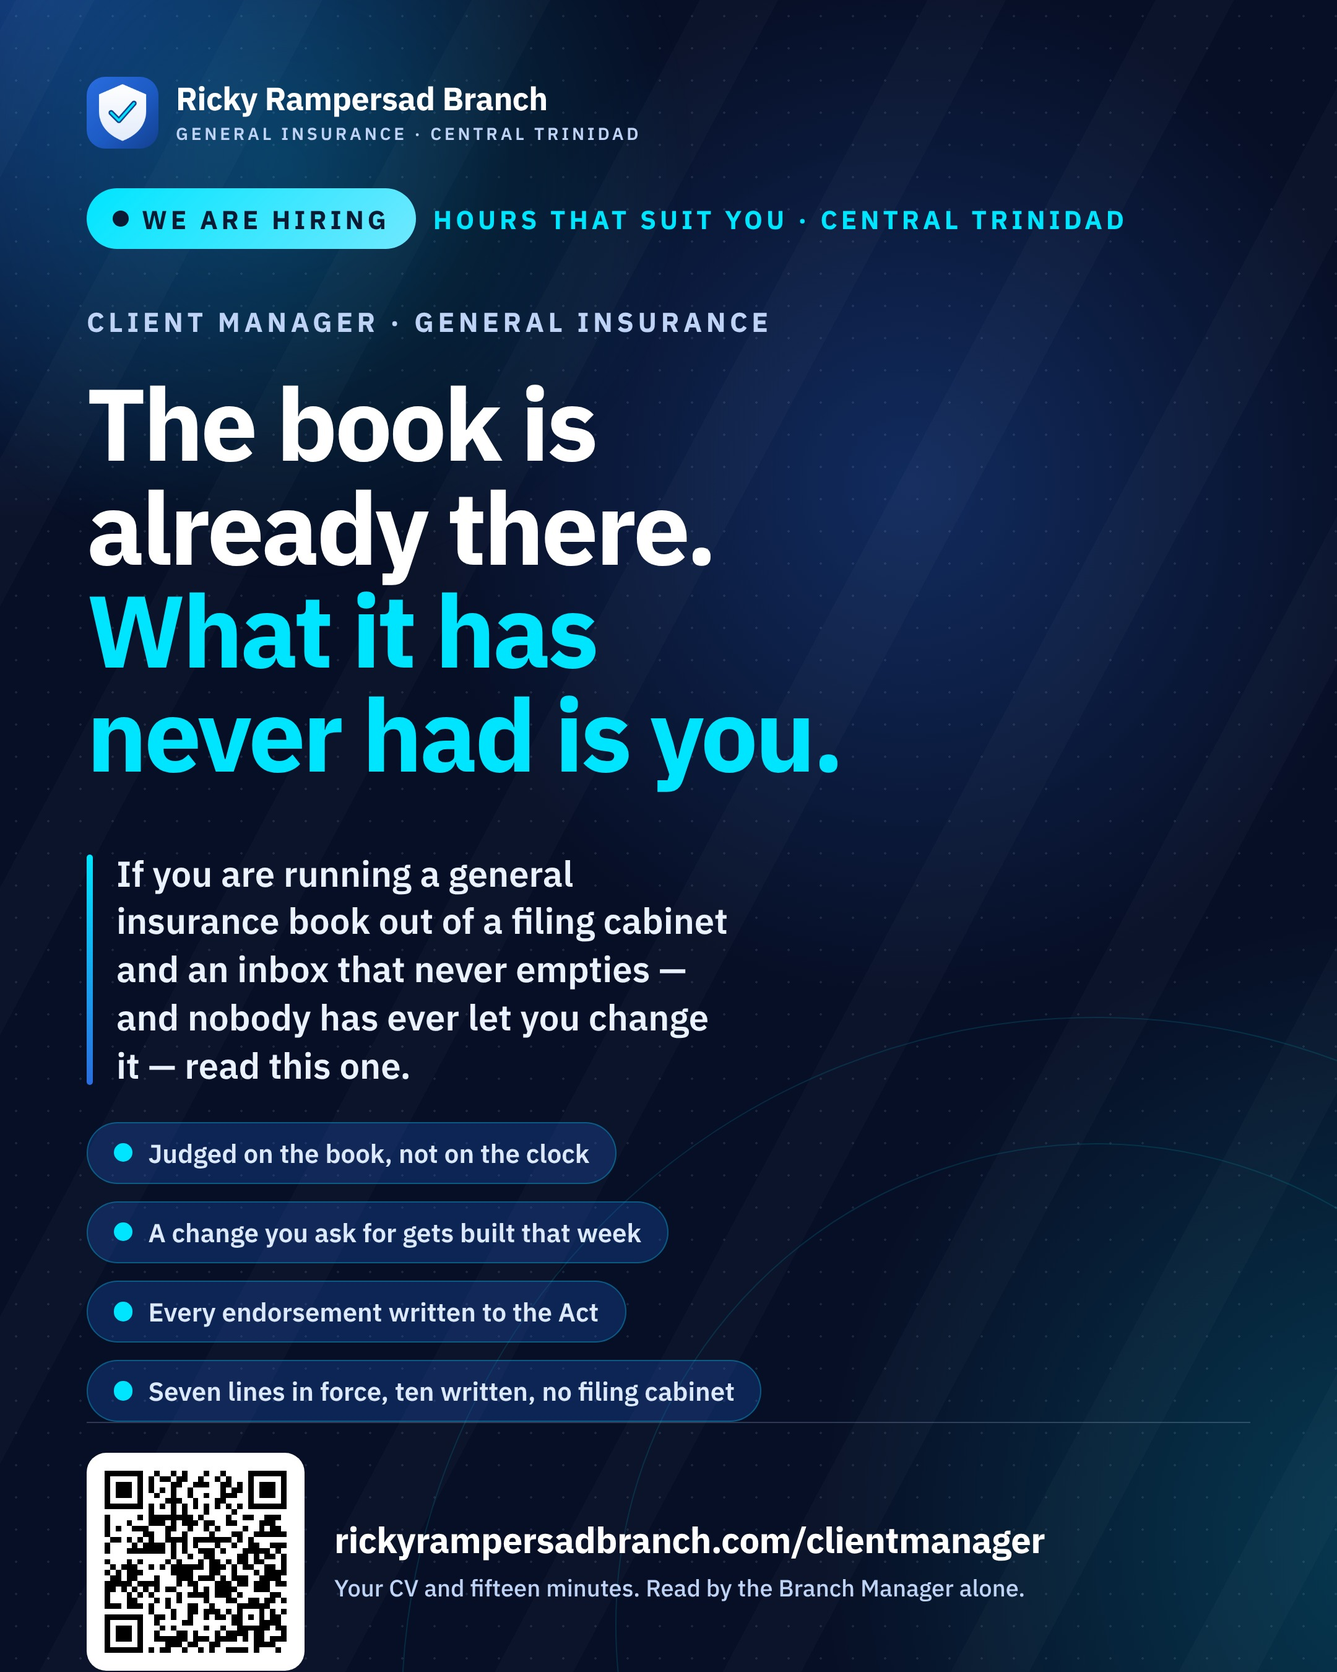
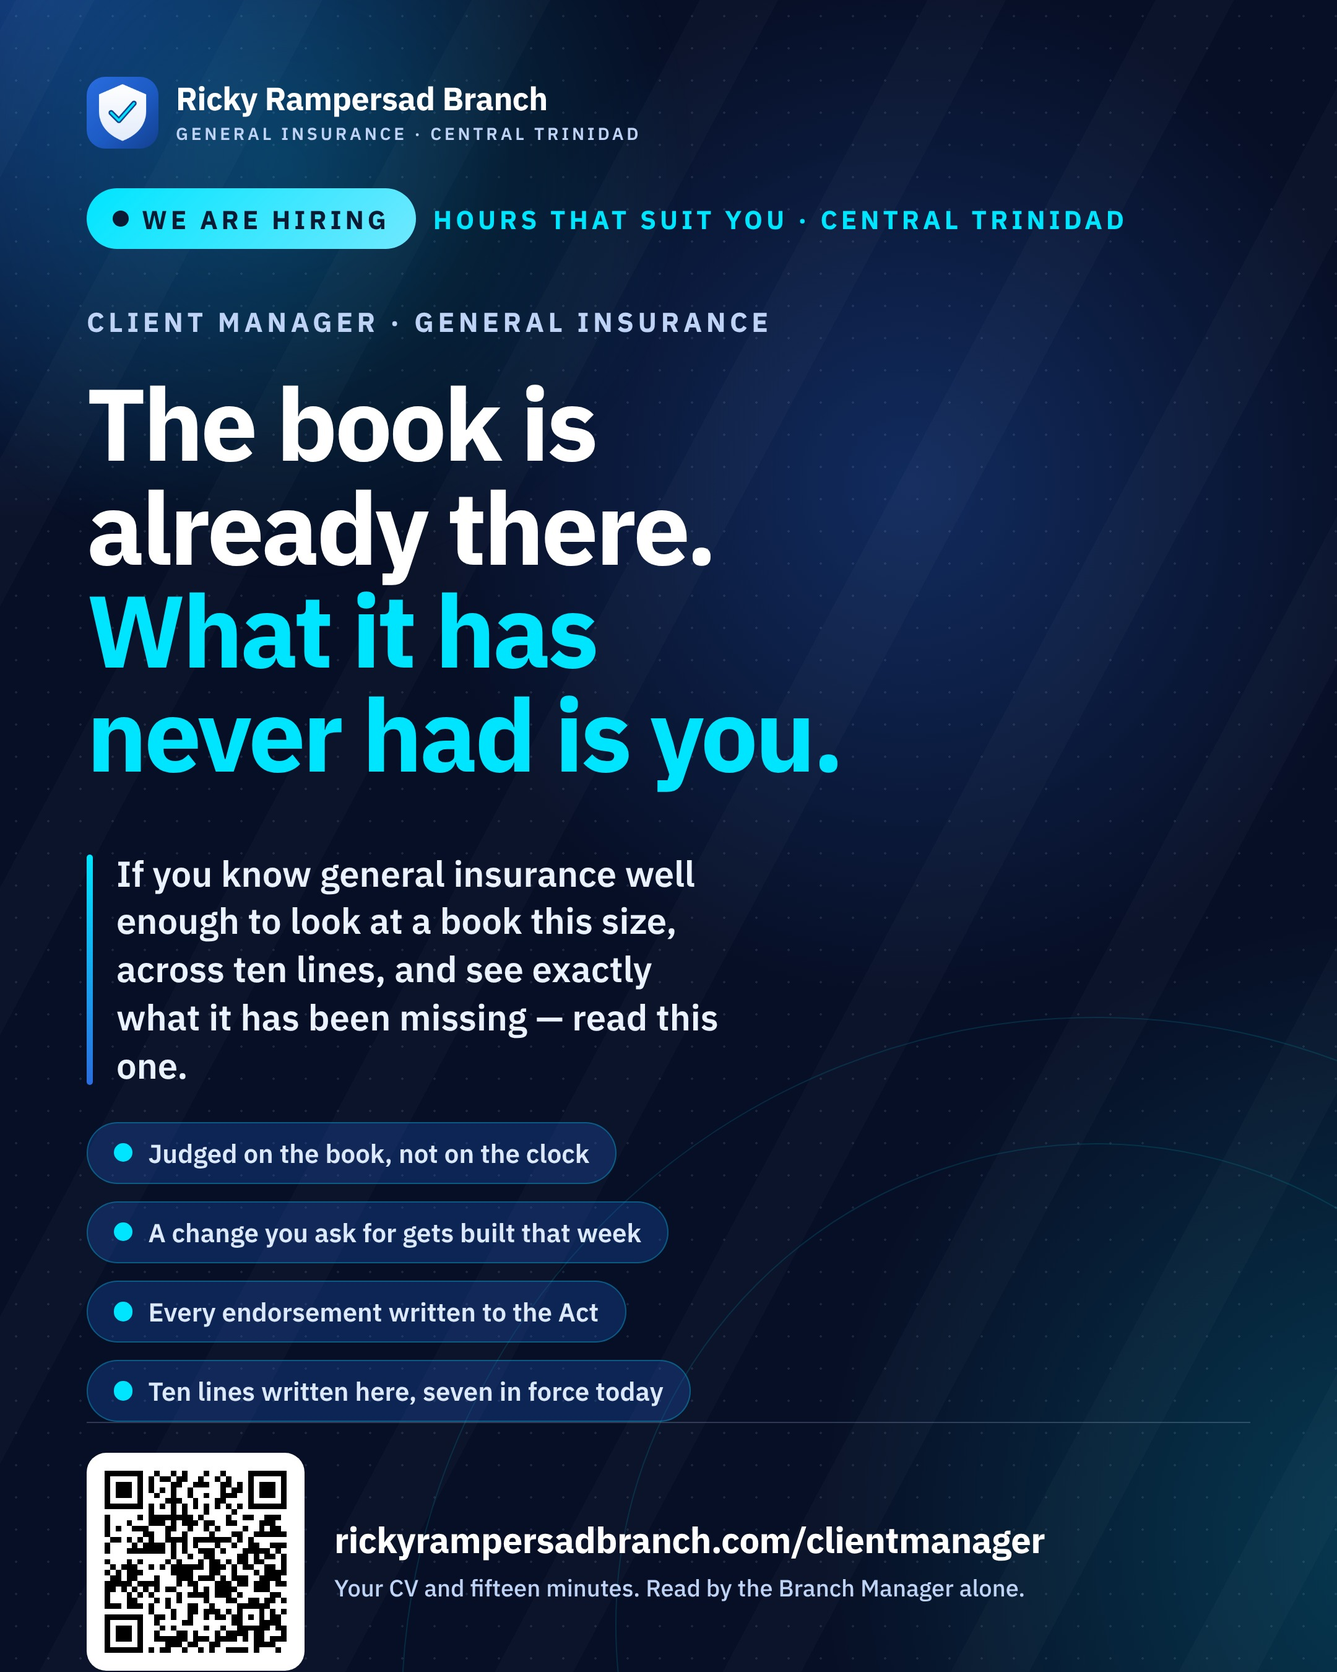
clientmanager: the misery column goes — the desk speaks for itself
"why are you saying still lives in a cabinet, I asked for creativity and
not bash."

This morning's pass took the competitor names and the "Everywhere else"
headers off and left the structure standing: a seven-row ledger whose left
column was the reader's own miserable week. That is still a verdict on his
employer however politely the column is headed, and a misery-then-rescue
ledger is the most tired shape an ad has. It also loses to the one true
thing this ad already had — the book exists, it is big, and it has never
had one person.

So the left column is gone, not reworded. What is left is the half that was
always doing the work:

  #old -> #desk, "Before you sit down"
  "The filing cabinet, the re-keying, the chasing. None of that is the job
   here." -> "Seven things this desk has already done by the time you open
   the file." — says what the job IS, not what it is not
  seven rows, numbered 01-07 in our own voice, each shown working further
   down the page; no comparison, nothing claimed about anybody else

Hero hook, which opened on his filing cabinet and his inbox that never
empties: "If you know general insurance well enough to look at a book this
size, across ten lines, and see exactly what it has been missing." It
flatters his expertise instead of pitying his week. The hsub lost "There is
no filing cabinet in this seat".

Posters rebuilt and re-shot (timestamps checked, not the tool's "ok"): the
[…]

Changed region(s): [[0.0931, 0.4978, 0.5583, 0.6533], [0.1241, 0.8089, 0.5894, 0.8711]]

diff --git a/clientmanager/index.html b/clientmanager/index.html
@@ -855,46 +855,29 @@ legend{font:600 var(--f--1)/1.4 var(--text);color:var(--ink);margin-bottom:.5rem
   padding:.55rem .9rem;min-height:40px;cursor:pointer}
 .draftbox button:hover{border-color:var(--a);color:var(--a)}
 
-/* ── the ledger: the reader's week now, against their week here ─────────────
-   8 November 2026, asked for in these words: "target where the work has
-   become overwhelming for persons with filing cabinets, manual, paper, and
-   still depend on the emails." A ledger rather than prose, because the
-   contrast has to be READ, not argued: the left column is their Tuesday, the
-   right is ours, row by row. Two columns on a desk and one on a phone, where
-   each pair still reads as a pair.
-   No line through the left column. It reads as cancelled, and on a long row
-   of real sentences it is simply hard to read — the mark and the header
-   carry it. And the mark is never the only thing that says which column is
-   which: the header row says it in words. */
-.onwh{display:grid;grid-template-columns:repeat(auto-fit,minmax(min(100%,17rem),1fr));
-  gap:var(--sp-s);margin-top:var(--sp-l);font-family:var(--display);font-weight:700;
-  font-size:var(--f--2);letter-spacing:.09em;text-transform:uppercase}
-.onwh span{padding:0 1.1rem;min-width:0}
-.onwh .ha{color:var(--muted)}
-.onwh .hb{color:var(--aD)}
-.onw{display:grid;gap:var(--sp-s);margin:var(--sp-s) 0 0;padding:0;list-style:none}
-.onw>li{display:grid;grid-template-columns:repeat(auto-fit,minmax(min(100%,17rem),1fr));
-  gap:0;background:var(--card);border:1px solid var(--line);border-radius:var(--r);
-  overflow:hidden;box-shadow:var(--e1)}
-.onw .o,.onw .n{display:flex;gap:.7rem;padding:1rem 1.1rem;min-width:0}
-.onw .o{background:var(--bg2)}
-.onw .mk{flex:none;width:1.4rem;height:1.4rem;border-radius:50%;display:grid;
-  place-items:center;font-size:.78rem;font-weight:700;margin-top:.12rem;font-style:normal}
-.onw .o .mk{background:#e3dccb;color:#5f553f}
-.onw .n .mk{background:var(--a-tint2);color:var(--aD)}
-.onw p{margin:0;font-size:var(--f--1);line-height:1.5;min-width:0;overflow-wrap:anywhere}
-.onw .o p{color:var(--muted)}
-.onw .n p{color:var(--body)}
-.onw .n b{color:var(--ink)}
-@media (max-width:34rem){
-  .onwh{display:none}
-  .onw .o,.onw .n{position:relative}
-  .onw .o::before,.onw .n::before{content:"Your week now";position:absolute;
-    top:.3rem;left:3.2rem;font-family:var(--display);font-size:.62rem;font-weight:700;
-    letter-spacing:.1em;text-transform:uppercase;color:var(--muted)}
-  .onw .n::before{content:"Your week here";color:var(--aD)}
-  .onw .o,.onw .n{padding-top:1.6rem}
-}
+/* ── the desk: seven things already running, numbered ───────────────────
+   9 November 2026. This was a two-column ledger: the reader's week on the
+   left, ours on the right, row by row. The names and the headers came off
+   that morning and it STILL read as bashing — "why are you saying still
+   lives in a cabinet, I asked for creativity and not bash". He was right.
+   A misery-then-rescue ledger is a verdict on the reader's employer however
+   politely the columns are headed, and it is the laziest shape an ad has.
+   So the left column is gone. What is left is the half that was always
+   doing the work: seven things the desk has already done before anybody
+   sits down, numbered, in our own voice, claiming nothing about anybody
+   else. Do not reintroduce a "before" column. */
+.onw{display:grid;gap:var(--sp-s);margin:var(--sp-l) 0 0;padding:0;list-style:none;
+  counter-reset:dsk}
+.onw>li{counter-increment:dsk;display:flex;gap:1rem;align-items:flex-start;
+  padding:1.05rem 1.2rem;background:var(--card);border:1px solid var(--line);
+  border-radius:var(--r);box-shadow:var(--e1);min-width:0}
+.onw .mk{flex:none;width:2.1rem;height:2.1rem;border-radius:.6rem;display:grid;
+  place-items:center;font-family:var(--display);font-size:var(--f--1);font-weight:800;
+  font-style:normal;background:var(--a-tint2);color:var(--aD);font-variant-numeric:tabular-nums}
+.onw .mk::before{content:counter(dsk,decimal-leading-zero)}
+.onw p{margin:0;font-size:var(--f--1);line-height:1.55;min-width:0;
+  overflow-wrap:anywhere;color:var(--body)}
+.onw b{color:var(--ink)}
 </style>
 </head>
 <body>
@@ -964,8 +947,8 @@ legend{font:600 var(--f--1)/1.4 var(--text);color:var(--ink);margin-bottom:.5rem
    </div>
 
    <div class="hero-rest">
-    <p class="pull">If you can run a general insurance book out of a filing cabinet and an inbox that never empties &mdash; and nobody has ever let you change any of it &mdash; this is the one to read.</p>
-    <p class="hsub">A general insurance book that has been written and renewed here year after year, across <strong>ten lines of business</strong>, personal and commercial, with renewals falling in every month. Until now the Branch Manager has looked after it himself, alongside everything else a branch asks of him &mdash; and <strong>it has outgrown that</strong>. What it needs is one person whose whole job it is. There is no filing cabinet in this seat: <strong>the re-keying, the chasing and the research are already built and running</strong>, the record is pulled from every source and scrubbed before you read it, <strong>you are judged on the book rather than on the clock</strong>, and the one thing nobody has settled &mdash; how this agency advises its clients, and how it stays compliant doing it &mdash; is left to the person in the seat.</p>
+    <p class="pull">If you know general insurance well enough to look at a book this size, across ten lines, and see exactly what it has been missing &mdash; this is the one to read.</p>
+    <p class="hsub">A general insurance book that has been written and renewed here year after year, across <strong>ten lines of business</strong>, personal and commercial, with renewals falling in every month. Until now the Branch Manager has looked after it himself, alongside everything else a branch asks of him &mdash; and <strong>it has outgrown that</strong>. What it needs is one person whose whole job it is. <strong>The re-keying, the chasing and the research are already built and running</strong>, the record is pulled from every source and scrubbed before you read it, <strong>you are judged on the book rather than on the clock</strong>, and the one thing nobody has settled &mdash; how this agency advises its clients, and how it stays compliant doing it &mdash; is left to the person in the seat.</p>
     <div class="ctas">
       <a class="btn btn-1" href="#apply">Apply &mdash; CV and fifteen minutes <svg class="ic" aria-hidden="true"><use href="#i-arrow"/></svg></a>
       <a class="btn btn-2" href="#file">Read a file first</a>
@@ -1145,27 +1128,31 @@ legend{font:600 var(--f--1)/1.4 var(--text);color:var(--ink);margin-bottom:.5rem
   </div>
 </section>
 
-<!-- Who the ad is actually for. 8 November 2026, in these words: "you
-     specifically want to target where the work has become overwhelming for
-     persons with filing cabinets, manual, paper, and still depend on the
-     emails." (He also characterised the agencies themselves; that half is in
-     the branch's own notes and is deliberately not written here, by the same
-     rule as the product names below.)
-     The page already showed the machine, in #tech. What it never did was
-     name the day the right person is living, and nobody moves job because
-     of a feature list — they move because somebody described their Tuesday.
-     Every line in the right-hand column is running in the branch today and
-     is shown working further down this page. Honest about paper: contracts
-     and cheques still arrive on paper from the insurer. What does not exist
-     here is a record that can only be found on paper. -->
-<section id="old">
+<!-- What the desk has already done. Built 8 November 2026 from a brief about
+     who the ad is for; that brief described the reader's current employer,
+     and both halves of it are in the branch's own notes rather than here.
+
+     9 November 2026 this was a two-column ledger — their week against ours,
+     row by row — and it survived the morning's de-bashing pass with only
+     its headers changed. It should not have: "why are you saying still
+     lives in a cabinet, I asked for creativity and not bash." A ledger that
+     opens on seven rows of somebody's misery is a verdict on their employer
+     whatever the column is called, and it is the most tired shape an ad has.
+     The half that was doing the work is what is left: seven things that are
+     already running in the branch, numbered, in our own voice, each shown
+     working further down this page. Nothing here claims anything about
+     anybody else, and no "before" column comes back.
+
+     Honest about paper: contracts and cheques still arrive on paper from the
+     insurer. What does not exist here is a record that can only be found on
+     paper — which is a fact about this desk, not a dig at another one. -->
+<section id="desk">
   <div class="wrap">
     <div class="rv" style="max-width:54rem">
-      <span class="eyebrow">If this is your Tuesday</span>
-      <h2 data-words>The filing cabinet, the re-keying, the chasing. None of that is the job here.</h2>
-      <p class="lede">This is the part of the page that is really about you rather than about the book. If the left column is your week &mdash; the drawer, the duplicate file, the inbox you never reach the bottom of &mdash; then read the right one twice. Every line of it is running in this branch today, and you can watch it work before you apply.</p>
+      <span class="eyebrow">Before you sit down</span>
+      <h2 data-words>Seven things this desk has already done by the time you open the file.</h2>
+      <p class="lede">This is the part of the page about the day rather than about the book. None of it is a plan or a roadmap &mdash; every line is running in the branch today, you can watch each one work before you apply, and together they are the reason this seat is about advice rather than about typing.</p>
     </div>
-    <div class="onwh rv" aria-hidden="true"><span class="ha">Your week now</span><span class="hb">Your week here</span></div>
     <ul class="onw">
       <!-- The system itself leads, because it is the first thing the right
            person will recognise. 8 November 2026, in these words: "most of
@@ -1187,32 +1174,25 @@ legend{font:600 var(--f--1)/1.4 var(--text);color:var(--ink);margin-bottom:.5rem
            the three was doing work the facts were not already doing.
            Do not put a competitor's product name back on this page. -->
       <li class="rv">
-        <div class="o"><i class="mk" aria-hidden="true">&#10005;</i><p>the system is on one PC, and the spreadsheet beside it holds everything the system will not do.</p></div>
-        <div class="n"><i class="mk" aria-hidden="true">&#10003;</i><p><b>Software the branch wrote itself</b>, running on anything with a browser, reaching into every system we deal with &mdash; the insurer&rsquo;s, our own records, the mailbox &mdash; and pulling the whole file into one place. <b>It changes every week</b>, and the change is usually somebody&rsquo;s in this building.</p></div>
+        <i class="mk" aria-hidden="true"></i><p><b>Software the branch wrote itself</b>, running on anything with a browser, reaching into every system we deal with &mdash; the insurer&rsquo;s, our own records, the mailbox &mdash; and pulling the whole file into one place. <b>It changes every week</b>, and the change is usually somebody&rsquo;s in this building.</p>
       </li>
       <li class="rv">
-        <div class="o"><i class="mk" aria-hidden="true">&#10005;</i><p>the renewal file comes out of a drawer, and last year&rsquo;s is in a different drawer, and the year before that is in storage.</p></div>
-        <div class="n"><i class="mk" aria-hidden="true">&#10003;</i><p><b>Every term since the policy began</b> opens on one screen &mdash; what was covered, at what value, what was paid and how late, and the claims that fell in each term &mdash; before you touch the file.</p></div>
+        <i class="mk" aria-hidden="true"></i><p><b>Every term since the policy began</b> opens on one screen &mdash; what was covered, at what value, what was paid and how late, and the claims that fell in each term &mdash; before you touch the file.</p>
       </li>
       <li class="rv">
-        <div class="o"><i class="mk" aria-hidden="true">&#10005;</i><p>you type the client&rsquo;s details into the insurer&rsquo;s proposal form again, from a file you already have open.</p></div>
-        <div class="n"><i class="mk" aria-hidden="true">&#10003;</i><p><b>Guardian&rsquo;s own PDFs fill themselves field by field</b> from what we hold &mdash; the proposal, Know Your Policy, the due-diligence checklist &mdash; and attach themselves. Not a retyped copy: the insurer&rsquo;s actual form, still editable at the other end.</p></div>
+        <i class="mk" aria-hidden="true"></i><p><b>Guardian&rsquo;s own PDFs fill themselves field by field</b> from what we hold &mdash; the proposal, Know Your Policy, the due-diligence checklist &mdash; and attach themselves. Not a retyped copy: the insurer&rsquo;s actual form, still editable at the other end.</p>
       </li>
       <li class="rv">
-        <div class="o"><i class="mk" aria-hidden="true">&#10005;</i><p>the insight is whatever you happened to notice while the client was on the phone.</p></div>
-        <div class="n"><i class="mk" aria-hidden="true">&#10003;</i><p><b>The desk has already read the record</b> and tells you what to raise first &mdash; the value carried unchanged for two terms running, the sum insured that no longer means anything, the premium paid late last year, the bank on the policy, the claim still open.</p></div>
+        <i class="mk" aria-hidden="true"></i><p><b>The desk has already read the record</b> and tells you what to raise first &mdash; the value carried unchanged for two terms running, the sum insured that no longer means anything, the premium paid late last year, the bank on the policy, the claim still open.</p>
       </li>
       <li class="rv">
-        <div class="o"><i class="mk" aria-hidden="true">&#10005;</i><p>you chase the client, or the renewal quietly goes, and the first anyone knows is the lapse.</p></div>
-        <div class="n"><i class="mk" aria-hidden="true">&#10003;</i><p><b>The client is reminded at fourteen days and again at ten</b>, a call opens itself at seven, and when the insurer answers late the desk chases that too, on the record. Nothing lapses because a person was busy.</p></div>
+        <i class="mk" aria-hidden="true"></i><p><b>The client is reminded at fourteen days and again at ten</b>, a call opens itself at seven, and when the insurer answers late the desk chases that too, on the record. Nothing lapses because a person was busy.</p>
       </li>
       <li class="rv">
-        <div class="o"><i class="mk" aria-hidden="true">&#10005;</i><p>what the client holds is in your head, or in an e-mail thread you have to go and find.</p></div>
-        <div class="n"><i class="mk" aria-hidden="true">&#10003;</i><p><b>The client signs in with a code to their own inbox</b> and reads it themselves &mdash; every year since inception, what it covered, what was billed and paid, and the claims &mdash; then confirms and signs on their phone.</p></div>
+        <i class="mk" aria-hidden="true"></i><p><b>The client signs in with a code to their own inbox</b> and reads it themselves &mdash; every year since inception, what it covered, what was billed and paid, and the claims &mdash; then confirms and signs on their phone.</p>
       </li>
       <li class="rv">
-        <div class="o"><i class="mk" aria-hidden="true">&#10005;</i><p>the data lives in four places that disagree, and reconciling them is somebody&rsquo;s evening.</p></div>
-        <div class="n"><i class="mk" aria-hidden="true">&#10003;</i><p><b>It is pulled from all of them and scrubbed before you see it</b> &mdash; duplicate terms, a mid-term change kept as its own policy, a vehicle carried under a changed number &mdash; and where the insurer&rsquo;s figure and ours disagree, the desk says which and by how much.</p></div>
+        <i class="mk" aria-hidden="true"></i><p><b>It is pulled from all of them and scrubbed before you see it</b> &mdash; duplicate terms, a mid-term change kept as its own policy, a vehicle carried under a changed number &mdash; and where the insurer&rsquo;s figure and ours disagree, the desk says which and by how much.</p>
       </li>
     </ul>
     <p class="rv" style="margin-top:var(--sp-m);max-width:62ch;font-size:var(--f-0)"><strong>Which is the difference, said in one line.</strong> A client here is not a transaction &mdash; a renewal keyed, a premium taken, a file closed until next year. A client here is a journey, and the system is built to carry it &mdash; what they hold, what they were told, what we did about it, and what happens next, in one place that every one of us can see. That is what this branch is actually good at, and it is what you would be given to work with.</p>

diff --git a/tools/ads/build-ad.py b/tools/ads/build-ad.py
@@ -50,18 +50,21 @@ ADS = {
         'role': 'Client Manager &middot; General Insurance',
         'head': ['The book is', 'already there.'],
         'em': ['What it has', 'never had is you.'],
-        # 8 November 2026: "target where the work has become overwhelming for
-        # persons with filing cabinets, manual, paper, and still depend on the
-        # emails." The pull names that day first and the autonomy second — a
-        # feature list moves nobody; a description of their own Tuesday does.
-        # It is the page's own pull, tightened for the frame.
-        'pull': 'If you are running a general insurance book out of a filing cabinet '
-                'and an inbox that never empties &mdash; and nobody has ever let you '
-                'change it &mdash; read this one.',
+        # 9 November 2026. The pull used to open on the reader's filing cabinet
+        # and his inbox that never empties: "why are you saying still lives in a
+        # cabinet, I asked for creativity and not bash." A poster that opens by
+        # telling a man his desk is primitive is an insult he reads in public,
+        # and it is beaten anyway by the one true thing this ad has — the book
+        # exists, it is big, and it has never had one person. So the pull flatters
+        # his expertise instead of pitying his week, and claims nothing about
+        # where he works now. It is the page's own pull, tightened for the frame.
+        'pull': 'If you know general insurance well enough to look at a book this '
+                'size, across ten lines, and see exactly what it has been missing '
+                '&mdash; read this one.',
         'chips': ['Judged on the book, not on the clock',
                   'A change you ask for gets built that week',
                   'Every endorsement written to the Act',
-                  'Seven lines in force, ten written, no filing cabinet'],
+                  'Ten lines written here, seven in force today'],
         'url': 'rickyrampersadbranch.com/clientmanager',
         'qr': 'qr-cmadmin.png',
         'foot': 'Your CV and fifteen minutes. Read by the Branch Manager alone.',
